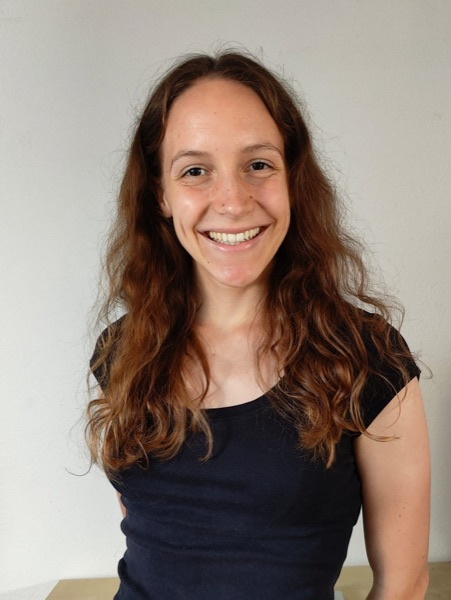
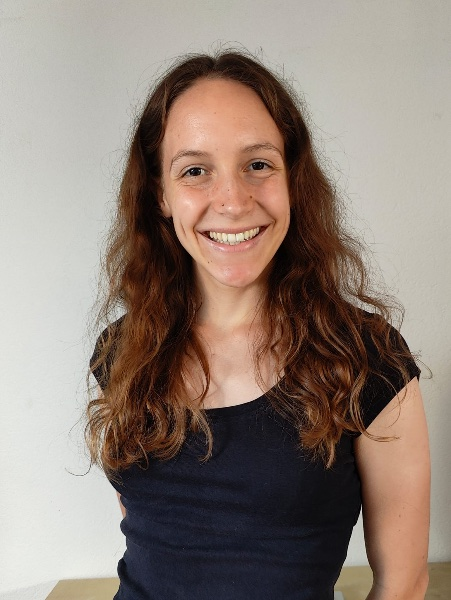
Inhalte «Über uns» an Online-Version angeglichen
Sanna ans Ende der Teamliste, Foto aus dem Admin-Upload übernommen,
Bildunterschrift Skills Day aktualisiert.

diff --git a/peer-skills-lab-kurse/src/content/defaults.js b/peer-skills-lab-kurse/src/content/defaults.js
@@ -144,7 +144,7 @@ export const ABOUT_DEFAULTS = {
   "images": [
     {
       "label": "Skills Day",
-      "caption": "Jährliches Skills-Fest",
+      "caption": "Optimale Prüfungsvorbereitung",
       "src": "/photos/skills-day.jpg"
     },
     {
@@ -283,11 +283,6 @@ export const ABOUT_DEFAULTS = {
       "img": "/team/Liam.jpeg"
     },
     {
-      "name": "Sanna",
-      "role": "Vorstand",
-      "img": "/team/sanna.jpg"
-    },
-    {
       "name": "Elena",
       "role": "Peer-Tutorin",
       "img": "/team/elena.jpg"
@@ -296,6 +291,11 @@ export const ABOUT_DEFAULTS = {
       "name": "Luzia",
       "role": "Peer-Tutorin",
       "img": "/team/luzia.jpg"
+    },
+    {
+      "name": "Sanna",
+      "role": "Vorstand",
+      "img": "/team/sanna.jpg"
     }
   ],
   "partnersTitle": "Partner & Unterstützer:innen",
